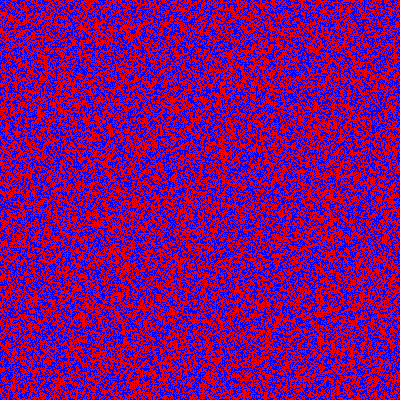
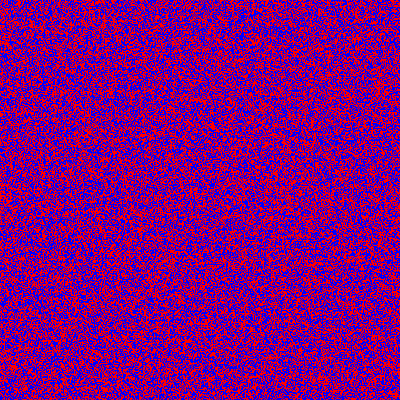
better animation

diff --git a/projects/project_4/tools/2d_ising.py b/projects/project_4/tools/2d_ising.py
@@ -72,7 +72,7 @@ if __name__ == '__main__':
     framecounter = 0
     for T, n in zip(T_values, range(N)):
         metropolis()
-        if n % 10000 == 0:
+        if n % 50000 == 0:
             print 'ping', n
             create_image(matr, dim_x, dim_y).save('tmp_%5d.png' % framecounter)
             framecounter += 1
